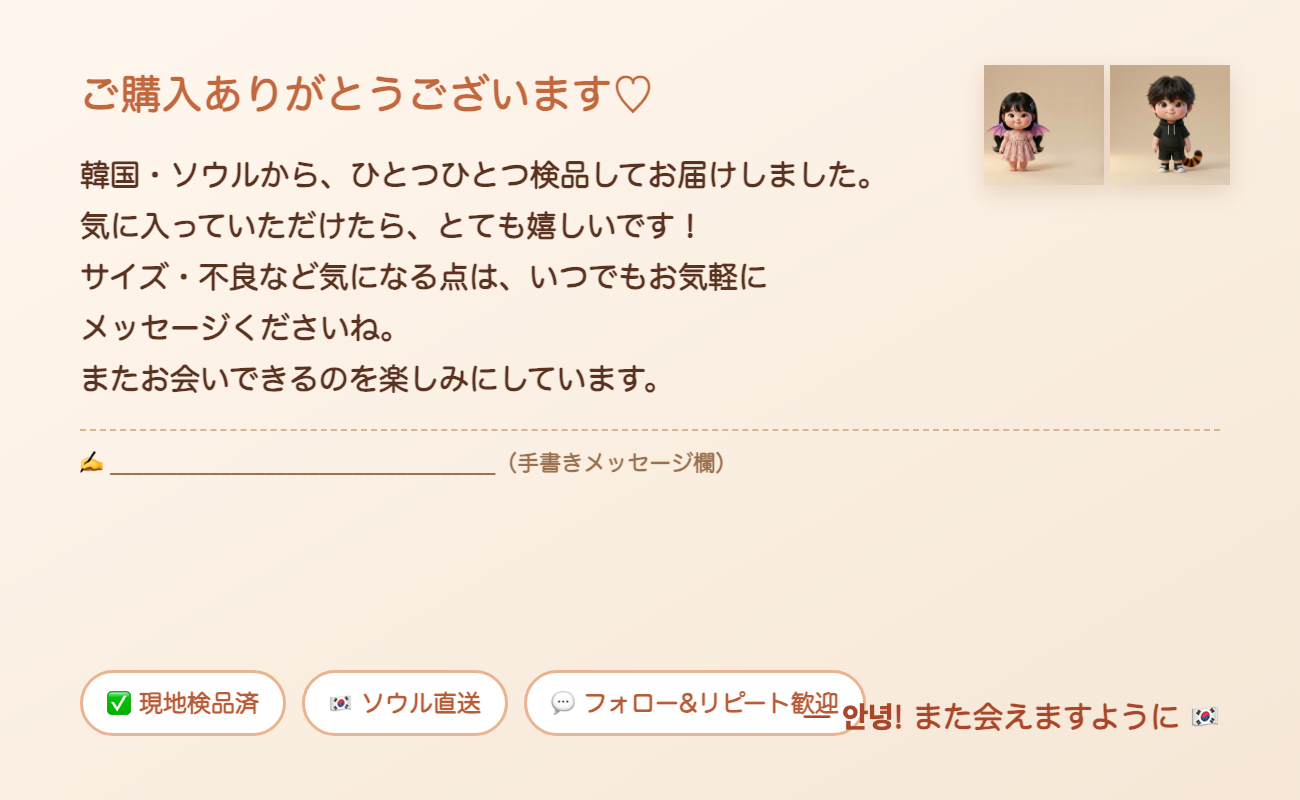
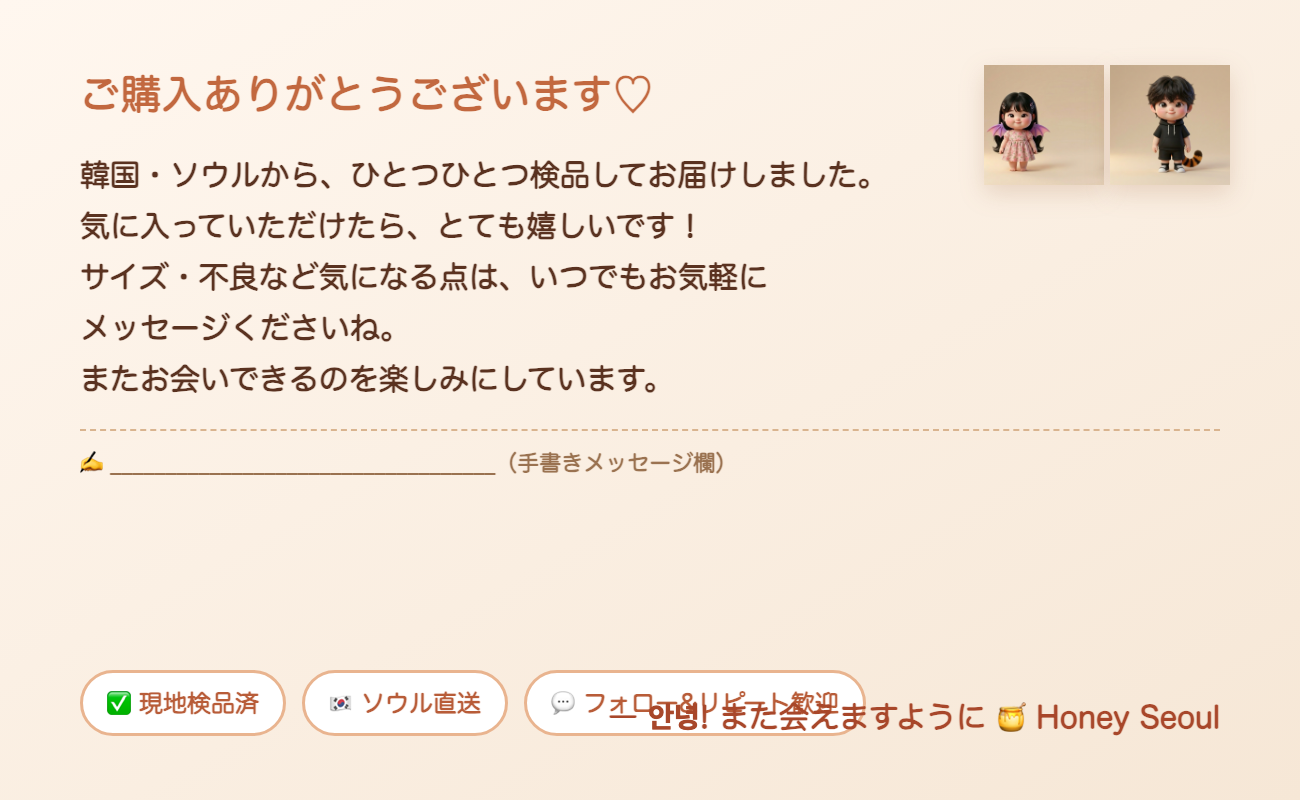
브랜드 확정 통일: Honey Seoul + 마스코트 ハニー(꿀달이·호랑이)&ヨン(또용이·용). 카드/포스트/전략/README + 브랜드기준 문서(26)

Changed region(s): [[0.4923, 0.875, 0.9538, 0.9375]]

diff --git a/product/_card_front.html b/product/_card_front.html
@@ -27,5 +27,5 @@ html,body{width:1300px;height:800px;overflow:hidden}
   </div>
   <div class="thanks">ありがとうございます<span class="heart">♡</span></div>
   <div class="sub">ソウル在住バイヤーが、現地でセレクト・検品してお届けしました</div>
-  <div class="shop">＿＿＿＿＿ SEOUL SELECT ＿＿＿＿＿</div>
+  <div class="shop">🍯 Honey Seoul 🍯</div>
 </div></body></html>

diff --git a/product/_card_back.html b/product/_card_back.html
@@ -30,5 +30,5 @@ html,body{width:1300px;height:800px;overflow:hidden}
     <div class="b">🇰🇷 ソウル直送</div>
     <div class="b">💬 フォロー&リピート歓迎</div>
   </div>
-  <div class="sign">― 안녕! また会えますように 🇰🇷</div>
+  <div class="sign">― 안녕! また会えますように 🍯 Honey Seoul</div>
 </div></body></html>

diff --git a/17_BUYMA_상품군_초보허들_차별화전략.md b/17_BUYMA_상품군_초보허들_차별화전략.md
@@ -43,10 +43,11 @@
 1. **프로필(아이콘·자기소개)** 2. **퍼스널쇼퍼 포스트(블로그·웹툰 가능)** 3. **동봉 메시지카드(포장)** 4. **상품 코멘트 말투**
 > (상품 사진 자체엔 캐릭터 못 얹음 — 정품 식별 규칙. 캐릭터는 상품 "주변"에 산다.)
 
-### 💡 컨셉(확정): **꿀달이·또용이 캐릭터** (본인 자산 활용)
-`product/characters/kkuldal.png`(딸·꿀달이) · `ttoyong.png`(아들·또용이) — **본인 창작 캐릭터 = 저작권 안전 + 따뜻한 신뢰 이미지.** (이전 'somi' 시안은 폐기)
-- **페르소나:** 한국 사는 **"꿀달어멈"**이 두 아이(꿀달이·또용이)와 함께 현지에서 골라주는 컨셉 → 엄마의 꼼꼼함·따뜻함 = 일본 구매자 안심
-- **마스코트 2종:** 꿀달이(딸, 플라워·날개)=여성·키즈 라인 / 또용이(아들, 후드·호랑이꼬리)=남성·스트릿 라인 으로 카테고리별 얼굴 분리 가능
+### 💡 컨셉(확정): **Honey Seoul — ハニー & ヨン** (26번 기준)
+`product/characters/kkuldal.png`(=**ハニー**, 꿀달이·호랑이🐯) · `ttoyong.png`(=**ヨン**, 또용이·용🐉) — **본인 창작 캐릭터 = 저작권 안전 + 따뜻한 신뢰 이미지.**
+- **샵명:** **Honey Seoul / ハニーソウル** (꿀=honey 정체성 계승)
+- **페르소나:** 한국 거주 셀러가 호랑이 ハニー·용 ヨン과 함께 현지에서 골라주는 컨셉 → 꼼꼼함·따뜻함 + **龍虎(용호) 길상·수호** 스토리 = 일본 구매자 안심
+- **마스코트 2종:** **ハニー(호랑이)=메인 호스트**(전반·주얼리·소품·달콤) / **ヨン(용)=서브**(스트릿·레어·임팩트)
 - **시그니처 보이스:** 글머리 한국어 한마디 — **"안녕! 今日のピックです〜"** (각인 포인트)
 - **말투:** 따뜻한 엄마톤 + 정중한 일본어. "現地で実物見てきました!" 생생함
 - **신뢰 코어:** 한국 거주·현지 검품·정품(공식몰/백화점) — 일본 구매자 최대 관심사
@@ -54,32 +55,32 @@
 ### "잊히지 않게" 만드는 5대 장치
 | # | 장치 | 어떻게 | 효과 |
 |---|---|---|---|
-| 1 | **캐릭터 아이콘** | 프로필·모든 포스트에 꿀달이·또용이 | 첫인상 각인 |
-| 2 | **4컷 미니웹툰 포스트** | "꿀달이의 오늘의 쇼핑" — 매장 탐방→상품 소개 (캐릭터 이미 있어 제작 쉬움) | 정보+재미, 팬화 |
-| 3 | **동봉 캐릭터 카드** | 꿀달이·또용이 카드 + 손글씨 한 줄 + 한국어 인사 + 검품·정품 안내 | 개봉 순간 감동→재구매·고평가 |
+| 1 | **캐릭터 아이콘** | 프로필·모든 포스트에 ハニー(호랑이)·ヨン(용) | 첫인상 각인 |
+| 2 | **4컷 미니웹툰 포스트** | "ハニーの今日のお買い物" — 매장 탐방→상품 소개 (캐릭터 이미 있어 제작 쉬움) | 정보+재미, 팬화 |
+| 3 | **동봉 캐릭터 카드** | ハニー(호랑이)·ヨン(용) 카드 + 손글씨 한 줄 + 한국어 인사 + 검품·정품 안내 | 개봉 순간 감동→재구매·고평가 |
 | 4 | **시그니처 인사** | "안녕!"으로 시작하는 브랜드 보이스 통일 | 일관성=기억 |
 | 5 | **현지 생생함** | "성수에서 직접 골랐어요" 실사진·후일담 | 무재고인데도 "현장감"으로 차별 |
 
 > ⚠ 카드 동봉은 **발송 방식에 달림** → 18번 문서 참고. "샵 직송"은 카드 불가, **"검품·발송 대행"이면 카드 동봉 가능**(직접 안 보내도 됨).
 
-> 검증된 원리: BUYMA에서 **손글씨/메시지카드 동봉 = 리피터 심리의 정석**, **포스트 활용 = 집객·팬화의 핵심**, 2025 시장은 **희소성·팬화**가 개인 셀러 생존선. "소미"는 이 셋을 한 캐릭터로 묶는다.
+> 검증된 원리: BUYMA에서 **손글씨/메시지카드 동봉 = 리피터 심리의 정석**, **포스트 활용 = 집객·팬화의 핵심**, 2025 시장은 **희소성·팬화**가 개인 셀러 생존선. "ハニー"는 이 셋을 한 캐릭터로 묶는다.
 
 ### 웹툰/캐릭터, 어떻게 만드나 (현실)
 - **시작(가벼움):** 마스코트 아이콘 1종 + 말풍선 템플릿(Canva) → 4컷은 사진+말풍선으로 충분(그림 실력 불필요)
 - **확장:** AI 이미지 생성으로 일관 캐릭터(캐릭터 시트 고정) → 진짜 웹툰체. 단 일관성 관리 필요
-- **동봉 카드:** 소미 일러스트 명함형 카드 인쇄(저가) + 손글씨 한 줄
+- **동봉 카드:** ハニー 일러스트 명함형 카드 인쇄(저가) + 손글씨 한 줄
 - ⚠ 캐릭터는 **본인 창작이라 저작권 OK.** 상품 사진엔 얹지 말 것(카탈로그/실물 규칙).
 
 ---
 
 ## 4. 실행 순서 (차별화 입히며 초보 진입)
 1. **소품·아이웨어 15~20개** 카탈로그 출품(이미지 합법·발송 쉬움) — 15번 가이드
-2. 프로필을 **"소미"**로 세팅(아이콘·자기소개·시그니처 인사)
-3. 첫 **4컷 포스트 1개**("소미의 오늘의 픽: 성수 액세서리")
+2. 프로필을 **"ハニー"**로 세팅(아이콘·자기소개·시그니처 인사)
+3. 첫 **4컷 포스트 1개**("ハニー의 오늘의 픽: 성수 액세서리")
 4. 첫 주문 → **캐릭터 카드 동봉** 발송 → ★고평가 유도
 5. 11번 4주 테스트 KPI로 점검 → 되면 키즈/스포츠 확장
 
-> 한 줄: **상품은 "경량 소품"으로 허들을 낮추고, 차별화는 "소미 캐릭터 + 4컷 웹툰 포스트 + 동봉 카드"로 잊히지 않게 만든다. 정품·현지 검품 신뢰가 그 토대.**
+> 한 줄: **상품은 "경량 소품"으로 허들을 낮추고, 차별화는 "ハニー 캐릭터 + 4컷 웹툰 포스트 + 동봉 카드"로 잊히지 않게 만든다. 정품·현지 검품 신뢰가 그 토대.**
 
 ---
 *출처: BUYMA 출품페이지 자유도 낮음·포스트가 집객핵심(buyma-essence·Delife 2025 시장동향 二極化·희소성/팬화), 손글씨 카드=리피터(shoppersplus·sakuchanco), 셀러 카테고리·가격대(16번 분석), 이미지·카탈로그 규칙(15번)*

diff --git a/23_꿀달이_4컷포스트_1편.md b/23_꿀달이_4컷포스트_1편.md
@@ -1,17 +1,17 @@
 # 🎬 "꿀달이의 오늘의 쇼핑" 4컷 쇼퍼포스트 — 첫 편
 
 > 2026-06-08 · BUYMA パーソナルショッパーポスト용. 4컷 스토리보드(그림 지시+대사) + 붙여넣기 본문(일본어).
-> 캐릭터: 꿀달이(クルダル) 메인, 또용이(トヨン)는 남성라인 호스트. 그림 = `characters/kkuldal.png`·`ttoyong.png` + 말풍선(캔바).
+> 캐릭터: **ハニー**(꿀달이·호랑이🐯) 메인, **ヨン**(또용이·용🐉) 서브. 샵명 **Honey Seoul**. 그림 = `characters/kkuldal.png`(ハニー)·`ttoyong.png`(ヨン) + 말풍선(캔바). 기준: 26번.
 
 ---
 
 ## 포스트 제목 (일본어)
-`【はじめまして♡】안녕! ソウル在住クルダルの"今日のお買い物" Vol.1 — 上品パールアクセ編`
+`【はじめまして♡】안녕! Honey Seoul・ハニーの"今日のお買い物" Vol.1 — 上品パールアクセ編`
 
 ## 4컷 스토리보드 (캔바로 제작: 캐릭터 + 말풍선 + 배경)
 | 컷 | 장면(그림 지시) | 대사(말풍선) |
 |---|---|---|
-| **1** | 꿀달이 손 흔들며 등장, 배경 서울 거리/성수 느낌 | **"안녕! 韓国・ソウル在住の クルダル です🇰🇷 今日から、私のお買い物を見せちゃいます♡"** |
+| **1** | 꿀달이 손 흔들며 등장, 배경 서울 거리/성수 느낌 | **"안녕! 韓国・ソウル在住の ハニー です🇰🇷 今日から、私のお買い物を見せちゃいます♡"** |
 | **2** | 꿀달이 매장 진열대에서 펄 네크리스 발견, 눈 반짝 | **"わ〜このパールネックレス、上品で可愛い…！日本のみんなに紹介したい！"** |
 | **3** | 꿀달이 돋보기로 검품하는 컷(품질 체크 강조) | **"ちゃんと現地で実物チェック✓ 傷もなくて状態◎。安心して届けますね！"** |
 | **4** | 꿀달이 쇼핑백 들고 윙크, 하단에 "出品ページへ♡" | **"気になったら出品ページから♡ 明日もソウルからお届け！또 봐요〜👋"** |
@@ -23,7 +23,7 @@
 ## 포스트 본문 (그대로 붙여넣기 · 일본어)
 ```
 안녕! はじめまして♡
-韓国・ソウル在住の「クルダル」です🇰🇷
+韓国・ソウル在住の「ハニー」です🇰🇷
 
 このたびショップを始めました！
 ソウルの街を実際にまわって、可愛い・上品・今っぽい韓国アイテムを
@@ -44,12 +44,12 @@
 
 これから毎週、ソウルからの"今日のお買い物"をお届けします。
 フォローして待っててくださいね！ 또 봐요〜👋
-― クルダル(꿀달이)
+― ハニー(꿀달이)
 ```
 
 ## 운영 팁
 - **주 1회** 발행, 매번 **"안녕!"으로 시작 + 또 봐요〜로 마무리**(시그니처 통일)
-- 남성·스트릿 아이템은 **또용이(トヨン)** 호스트로 같은 포맷 → 라인 구분
+- 남성·스트릿 아이템은 **또용이(ヨン)** 호스트로 같은 포맷 → 라인 구분
 - 포스트 끝에 항상 **출품 링크 + 리퀘스트 유도**(팬·재구매)
 - 실제 매장·검품 **실사진 1~2장** 곁들이면 "현지 생생함" 신뢰 ↑
 - 캐릭터·말풍선 색은 카드와 동일 팔레트(22번 hex)로 일관성

diff --git a/26_HoneySeoul_브랜드_아이덴티티.md b/26_HoneySeoul_브랜드_아이덴티티.md
@@ -1,0 +1,57 @@
+# 🍯 Honey Seoul — 브랜드 아이덴티티 (단일 기준)
+
+> 2026-06-10 확정 · BUYMA 샵의 모든 표기·디자인은 이 문서를 따른다. (캐릭터·이름·보이스·컬러)
+
+---
+
+## 1. 확정 사항
+| 항목 | 확정값 |
+|---|---|
+| **샵명** | **Honey Seoul / ハニーソウル** (꿀달이의 '꿀=honey' 정체성 계승) |
+| **메인 마스코트** | **ハニー** = 꿀달이(**호랑이 🐯** 귀·꼬리, 남아) · `characters/kkuldal.png` |
+| **서브 마스코트** | **ヨン** = 또용이(**용 🐉** 날개) · `characters/ttoyong.png` |
+| **시그니처 인사** | **"안녕!"** 으로 시작 · **"또 봐요〜👋"** 로 마무리 |
+| **타깃** | 일본 BUYMA 구매자(한국 패션·소품) |
+
+## 2. 마스코트 역할
+- **ハニー(호랑이)** = 메인 호스트. 전반·달콤·따뜻. 주얼리·소품·데일리 다 소화(첫 포스트도 ハニー).
+- **ヨン(용)** = 서브. 스트릿·레어템·임팩트 라인 또는 ハニー와 듀오 등장.
+- 듀오 떡밥: **호랑이+용 = 龍虎(용호)** = 한·일 공통 길상·수호 → "현지에서 지켜보고 골라 드린다" 신뢰 스토리.
+
+## 3. 보이스(말투)
+- 따뜻한 친근체 + 정중한 일본어. 글머리 **"안녕!"**, 마무리 **"또 봐요〜"**
+- 신뢰 코어 문구: **"ソウル在住・現地でセレクト・検品してお届け"**, **"正規品"**
+- 1인칭: ハニー / ヨン (캐릭터 이름)
+
+## 4. 컬러 팔레트 (카드·포스트·프로필 통일)
+| 용도 | Hex |
+|---|---|
+| 배경 크림 | `#EFE0CD` (그라데 `#F3E6D4`→`#E6CDB0`) |
+| 뒷면 배경 | `#FFF7EF`→`#F6E7D6` |
+| 메인 텍스트 | `#5A3220` |
+| 강조 코랄 | `#C2683F` / 진한 `#A8472A`(한국어) |
+| 하트 핑크 | `#E06B8B` |
+| 뱃지 테두리 | `#E9B48F` · 꿀 포인트 🍯 |
+
+## 5. 폰트
+- 일/한 따뜻·둥근: **Zen Maru Gothic · M PLUS Rounded 1c**(일) / **Cafe24 Ssurround · 검은고딕**(한)
+
+## 6. 적용처 체크 (전부 Honey Seoul + ハニー&ヨン로)
+- [x] 브랜드 기준 문서(본 26번)
+- [x] 동봉 카드 앞/뒤 (21·22번, `card_front/back.png`) → 샵명 Honey Seoul
+- [x] 4컷 포스트(23번) → 호스트 **ハニー**(클루달 표기 교체)
+- [x] 차별화 전략(17번) → ハニー&ヨン
+- [ ] BUYMA 프로필 아이콘 = ハニー(호랑이) / 자기소개에 "안녕! Honey Seoulです🍯"
+- [ ] 프로필 자기소개문(아래 6-1)
+
+### 6-1. BUYMA 프로필 자기소개문 (붙여넣기)
+```
+안녕! ソウル在住の「Honey Seoul（ハニーソウル）」です🍯🇰🇷
+マスコットは、トラのハニーと、ドラゴンのヨン。
+ソウルの街で、可愛い・上品・今っぽい韓国アイテムを
+ひとつひとつ現地でセレクト＆検品してお届けします。
+正規品のみ・ていねい梱包・メッセージカード同梱♡
+「こんなの探して！」のリクエストも大歓迎。또 봐요〜👋
+```
+
+*연계: 캐릭터 product/characters/ · 카드 21·22 · 포스트 23 · 전략 17*

diff --git a/README.md b/README.md
@@ -38,13 +38,14 @@
 | 23 | [꿀달이 4컷 포스트 1편](23_꿀달이_4컷포스트_1편.md) | 쇼퍼포스트 4컷 스토리보드 + 일본어 본문(붙여넣기) |
 | 24 | [첫 출품 소품 18개 리스트](24_첫출품_소품18_리스트.md) | 브랜드·카탈로그·예상마진 시트(전부 면세) + 출품순서 |
 | 25 | [⭐ BUYMA 실행 체크리스트](25_BUYMA_실행_체크리스트.md) | 10~24 요약 한 장 — 6스텝 체크박스 + 핵심 숫자 + 절대규칙 |
+| 26 | [🍯 Honey Seoul 브랜드 아이덴티티](26_HoneySeoul_브랜드_아이덴티티.md) | 샵명·마스코트(ハニー&ヨン)·보이스·컬러·프로필문 단일 기준 |
 
 ## 📦 상품 (product/)
 - [표지 cover.png](product/cover.png) — A4 1600×2263 / [크몽 표지 kmong_cover.png](product/kmong_cover.png) — 652×488
 - [Ch.2 Tax Refund 챕터](product/02_TaxRefund_chapter.md) · [Ch.3 성수 챕터](product/03_Seongsu_chapter.md) · [Ch.4 매장 디렉토리 50](product/04_store_directory.md)
 - [상세페이지 카피(크몽+Gumroad)](product/kmong_listing_copy.md)
 - [BUYMA 재고·마진 시트(CSV 임포트용)](product/buyma_inventory_template.csv) — Google Sheets로 가져오기
-- 캐릭터 마스코트: product/characters/kkuldal.png(꿀달이) · ttoyong.png(또용이) — 프로필·포스트·동봉카드용
+- 캐릭터 마스코트: product/characters/kkuldal.png(=**ハニー**, 꿀달이·호랑이) · ttoyong.png(=**ヨン**, 또용이·용) — 샵 **Honey Seoul**, 프로필·포스트·동봉카드용
 - 판매: **Gumroad(글로벌 메인)** + 크몽(보조·국내) · 가격 $19 (베타 $12)
 - ⚠ 크몽은 타겟 어긋남(영문·외국인) → 보조채널. 크몽 규정(AI창작물·외부채널 금지) 준수 필요
 

diff --git a/22_동봉카드_캔바_제작가이드.md b/22_동봉카드_캔바_제작가이드.md
@@ -40,7 +40,7 @@
    - 본문 `#5A3220` Black, "♡"만 `#E06B8B`. 가장 크게(28~34pt)
 5. **서브 한 줄**(중앙): `ソウル在住バイヤーが、現地でセレクト・検品してお届けしました`
    - `#7A4A30`, 9~10pt
-6. **하단 샵명**(중앙): `〔샵명〕 SEOUL SELECT` ← **확정 샵명으로 교체**, `#B85C38` Bold
+6. **하단 샵명**(중앙): `Honey Seoul 🍯` ← **확정 샵명으로 교체**, `#B85C38` Bold
 7. (선택) 코너 이모지 🛍✨🎀 살짝 투명하게 장식
 
 **앞면 붙여넣기 텍스트**
@@ -48,7 +48,7 @@
 안녕! ソウルからお届け 🇰🇷
 ありがとうございます♡
 ソウル在住バイヤーが、現地でセレクト・検品してお届けしました
-〔샵명〕 SEOUL SELECT
+Honey Seoul 🍯
 ```
 
 ---

diff --git a/21_꿀달또용_동봉카드_인쇄가이드.md b/21_꿀달또용_동봉카드_인쇄가이드.md
@@ -12,7 +12,7 @@
 > 캐릭터는 **본인 창작 = 저작권 안전.** 카드(포장물)에 사용 = BUYMA 규칙 무관(상품 사진 아님).
 
 ### 채워야 할 것
-- `SEOUL SELECT` 자리 → **확정 샵명**으로 교체(일본어/영문). 미정이면 그대로 두고 추후 교체
+- ✅ 샵명 확정: **Honey Seoul 🍯** (26번)
 - 뒷면 손글씨 欄 → 발송 시 한 줄 자필(또는 배대지에 "동봉만" 맡기면 인쇄 문구로 충분)
 
 ---
